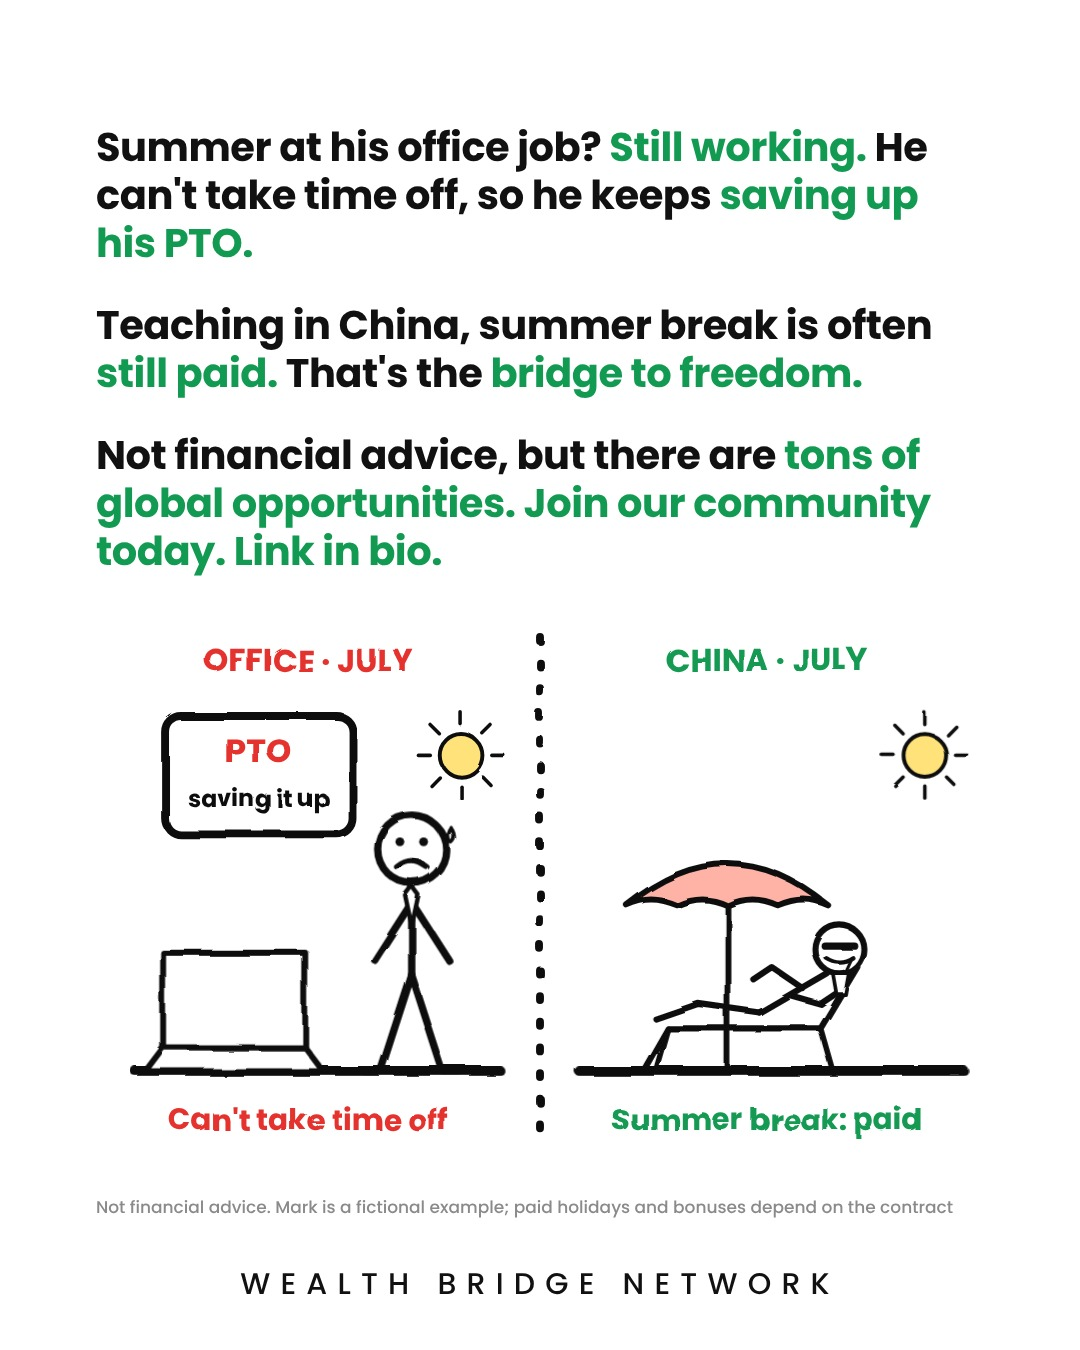
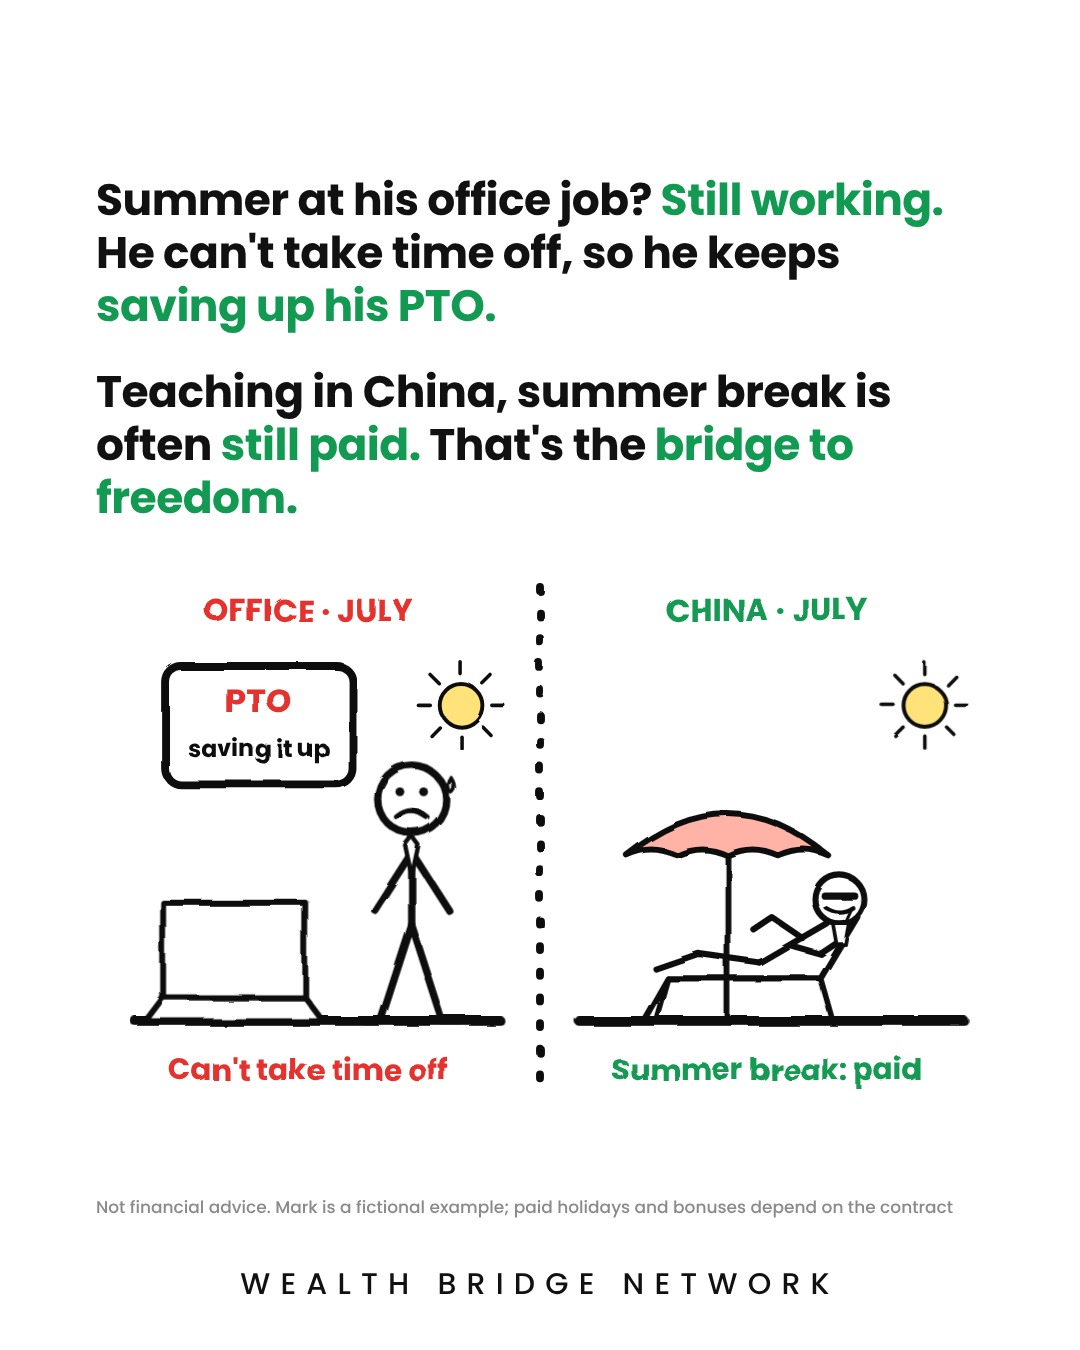
54 Mark: move CTA to its own final slide (9 slides)
Claude-Session: https://claude.ai/code/session_01XWHiAuJ5usg3NqhhkBZ2QK

diff --git a/content/marks_story.py b/content/marks_story.py
@@ -160,8 +160,7 @@ dict(id="54-marks-story", pillar="Job offers", title="What if you taught in Chin
       src=NOTE),
  # 8 · SUMMER + CLOSE
  dict(text=["Summer at his office job? *Still working.* He can't take time off, so he keeps *saving up his PTO.*",
-            "Teaching in China, summer break is often *still paid.* That's the *bridge to freedom.*",
-            "Not financial advice, but there are *tons of global opportunities.* *Join our community today. Link in bio.*"], fs=40,
+            "Teaching in China, summer break is often *still paid.* That's the *bridge to freedom.*"], fs=44,
       scene=lbl(215, 34, "OFFICE · JULY", RED, 32) + lbl(680, 34, "CHINA · JULY", GREEN, 32) + divider(450, 0, 520)
       + f'<rect x="70" y="80" width="190" height="120" rx="16" fill="#fff" stroke="{INK}" stroke-width="8"/>'
       + _t(165, 128, "PTO", 34, 800, RED) + _t(165, 172, "saving it up", 24, 700)
@@ -170,5 +169,10 @@ dict(id="54-marks-story", pillar="Job offers", title="What if you taught in Chin
       + sun(840, 120, 0.4) + ground(490, 880, 440) + umbrella(640, 440, 0.6) + lounger(660, 440, 0.62)
       + lbl(680, 500, "Summer break: paid", GREEN, 30, 700), vh=530,
       src="Not financial advice. Mark is a fictional example; paid holidays and bonuses depend on the contract"),
+ # 9 · CTA
+ dict(hook="Ready to cross\nthe *bridge?*", hs=104,
+      kick="There are *tons of global opportunities* that could change your life. *Join our community today.* Link in bio.",
+      scene=ground(60, 840, 560) + figure(230, 560, 1.15, "point", "grin") + follow_phone(600, 560, 1.15), vh=580,
+      src="Not financial advice. Mark is a fictional example"),
 ]),
 ]
